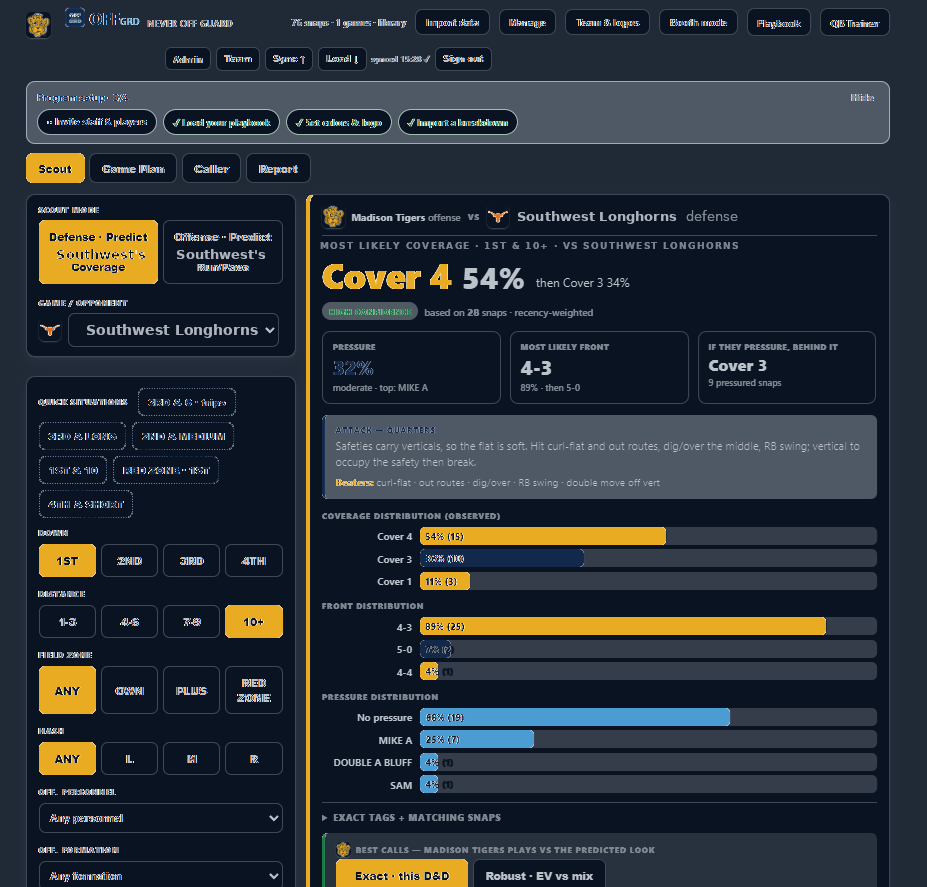
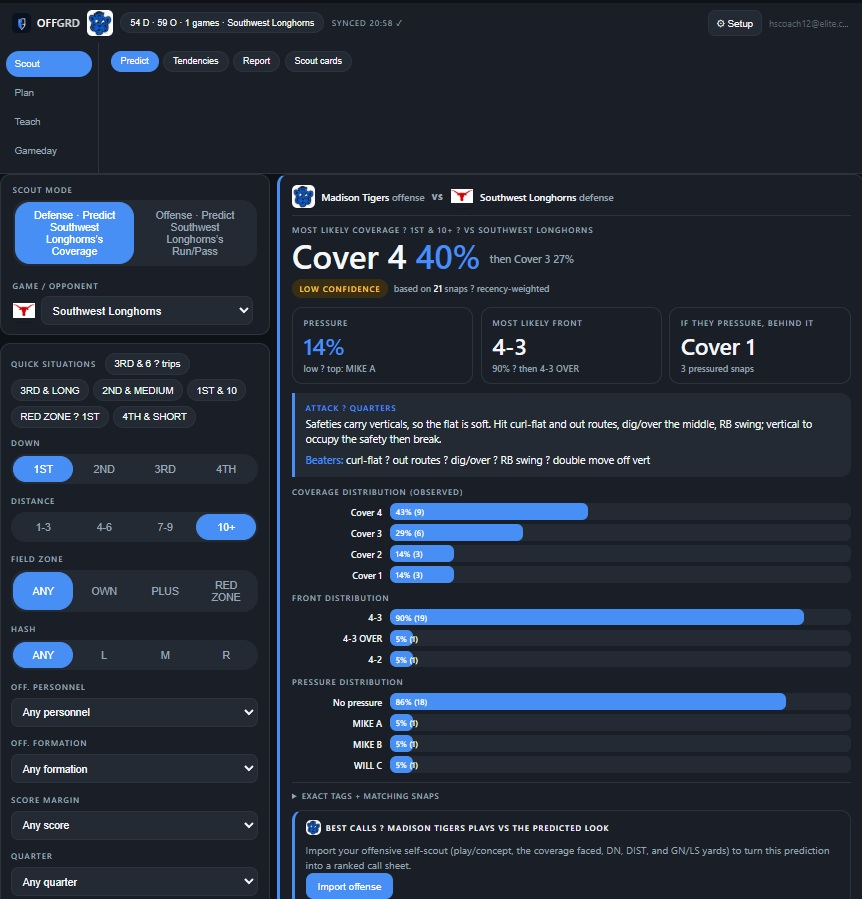
Add files via upload

diff --git a/OFFGRD-redesign.js b/OFFGRD-redesign.js
@@ -450,6 +450,14 @@
       return { accent: fb, accentText: relativeLuminance(fb) > 0.45 ? "#0E1116" : "#FFFFFF" };
     }
     const hsl = rgbToHsl(rgb.r, rgb.g, rgb.b);
+    /* Achromatic team color (black / white / gray) has no real hue: rgbToHsl returns
+       h=0, and forcing saturation up below would invent a red. Use the neutral
+       fallback accent instead so black teams don't render as maroon. */
+    if (hsl.s < 0.08) {
+      /* Brand blue for achromatic (black / white / gray) teams — same accent in Day & Night. */
+      const acc = "#2F6BFF";
+      return { accent: acc, accentText: relativeLuminance(acc) > 0.45 ? "#0E1116" : "#FFFFFF" };
+    }
     const s = Math.max(hsl.s, 0.55);
     let l = hsl.l;
     /* Spec bands — ONE PASS. Never iterate lightness. */

diff --git a/index.html b/index.html
@@ -217,7 +217,7 @@ footer{border-top:1px solid var(--stroke);padding:50px 0 60px}
     <div class="subnote">One program library <span class="sep">·</span> <b>Coaches plan, players train, everyone syncs</b> <span class="sep">·</span> Hudl &amp; QwikCut imports <span class="sep">·</span> No internet needed at game time</div>
   </div>
   <div class="hero-shot reveal">
-    <img src="shot-scout-night.png" alt="OFFGRD Scout predicting Cover 4 at 54% — Madison Tigers vs Southwest Longhorns" />
+    <img src="shot-scout-night.png" alt="OFFGRD Scout predicting Cover 4 at 40% — Madison Tigers vs Southwest Longhorns" />
     <div class="cap">Scout — predicted look, live on the sideline</div>
   </div>
 </section>